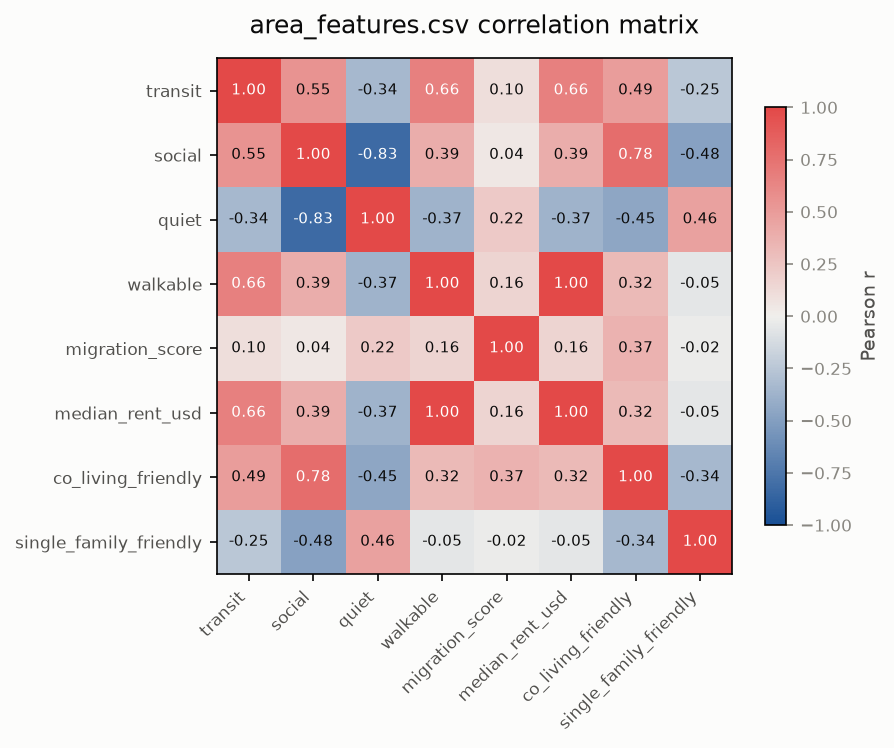
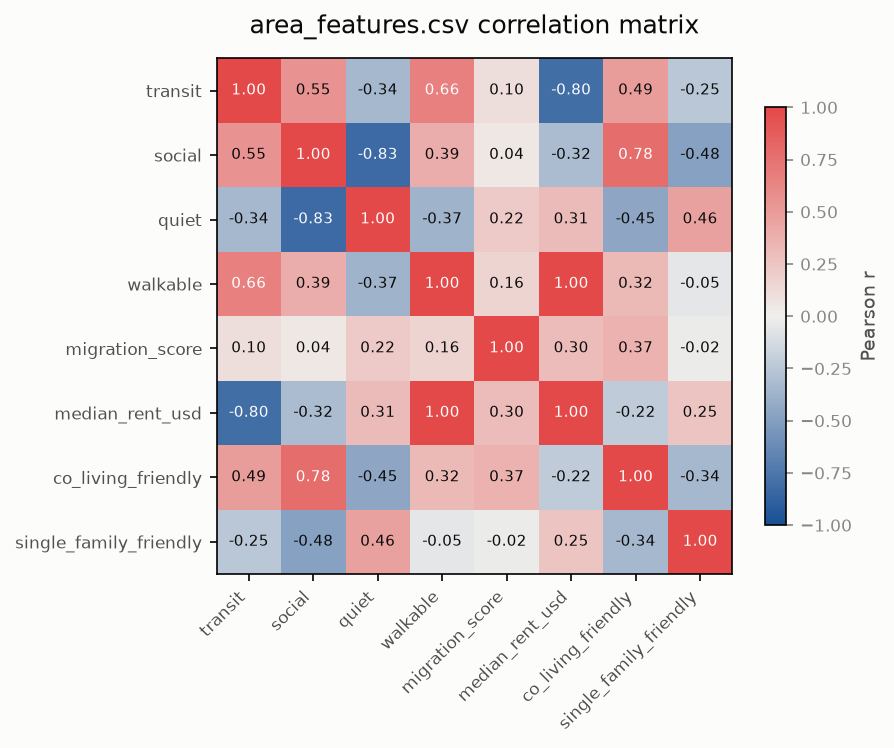
Exclude suppression sentinels before correlating
correlated_pairs() and plot_correlation_heatmap() read the raw frames, so
-666666666 was still present when they ran. A single suppressed ZIP acts as an
extreme leverage point: median_rent_usd vs zillow_home_value_index read -0.902
raw against a Spearman of +0.451, and five entries in the heatmap's
median_rent_usd row had the wrong sign.

Both now mask the sentinel to NaN first, via drop_sentinels().

This surfaces a redundancy the first pass missed: transit vs median_rent_usd
is -0.801, where the raw frame read +0.662 and fell under the 0.7 threshold.
Task #5 selected transit as a similarity feature citing Task #4 not flagging
it, so that decision needs revisiting.

Raised by Aziz on PR #19.

diff --git a/scripts/eda.py b/scripts/eda.py
@@ -165,6 +165,18 @@ def near_constant_columns(df: pd.DataFrame, tol: float = 1e-3) -> pd.DataFrame:
     return pd.DataFrame(rows, columns=["column", "p5_p95_spread", "full_range", "dominant_value_share"])
 
 
+def drop_sentinels(df: pd.DataFrame) -> pd.DataFrame:
+    """Replace the suppression sentinel with NaN so correlations skip those cells.
+
+    Correlating the raw frame lets a single sentinel row act as an extreme
+    leverage point: median_rent_usd vs zillow_home_value_index reads -0.902
+    raw and +0.587 with the sentinel dropped.
+    """
+    numeric = df.select_dtypes(include="number")
+    masked = {c: numeric[c].mask(numeric[c] == SUPPRESSED_VALUE) for c in numeric.columns}
+    return df.assign(**masked)
+
+
 def exact_duplicate_columns(df: pd.DataFrame) -> list[tuple[str, str]]:
     """Column pairs that are byte-identical, not merely correlated."""
     cols = list(df.columns)
@@ -177,14 +189,15 @@ def exact_duplicate_columns(df: pd.DataFrame) -> list[tuple[str, str]]:
 
 
 def correlated_pairs(df: pd.DataFrame, threshold: float = 0.7) -> pd.DataFrame:
-    """Numeric column pairs at or above |r| >= threshold.
+    """Numeric column pairs at or above |r| >= threshold, sentinel cells excluded.
 
     Drops constant columns first: pandas' .corr() returns NaN for them, and
     silently dropping NaN correlations would hide a "no signal at all"
     column behind a "not correlated" report row.
     """
-    numeric = df.select_dtypes(include="number").drop(
-        columns=constant_columns(df), errors="ignore"
+    clean = drop_sentinels(df)
+    numeric = clean.select_dtypes(include="number").drop(
+        columns=constant_columns(clean), errors="ignore"
     )
     if numeric.shape[1] < 2:
         return pd.DataFrame(columns=["col_a", "col_b", "r"])
@@ -323,8 +336,9 @@ def plot_correlation_heatmap(
     df: pd.DataFrame, title: str, annotate: bool = True
 ) -> Figure:
     """Diverging correlation matrix, a matrix of r-values is a polarity job (-1..0..+1), not a magnitude one."""
-    numeric = df.select_dtypes(include="number").drop(
-        columns=constant_columns(df), errors="ignore"
+    clean = drop_sentinels(df)
+    numeric = clean.select_dtypes(include="number").drop(
+        columns=constant_columns(clean), errors="ignore"
     )
     corr = numeric.corr()
     cmap = LinearSegmentedColormap.from_list(
